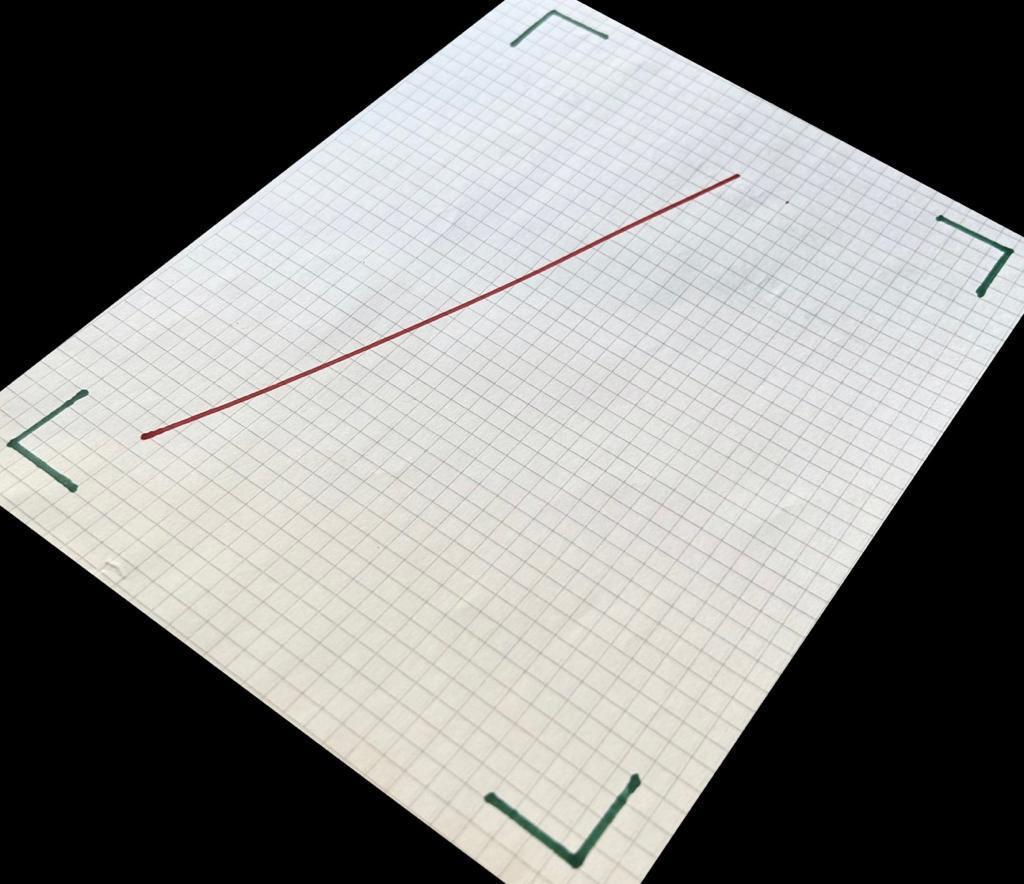
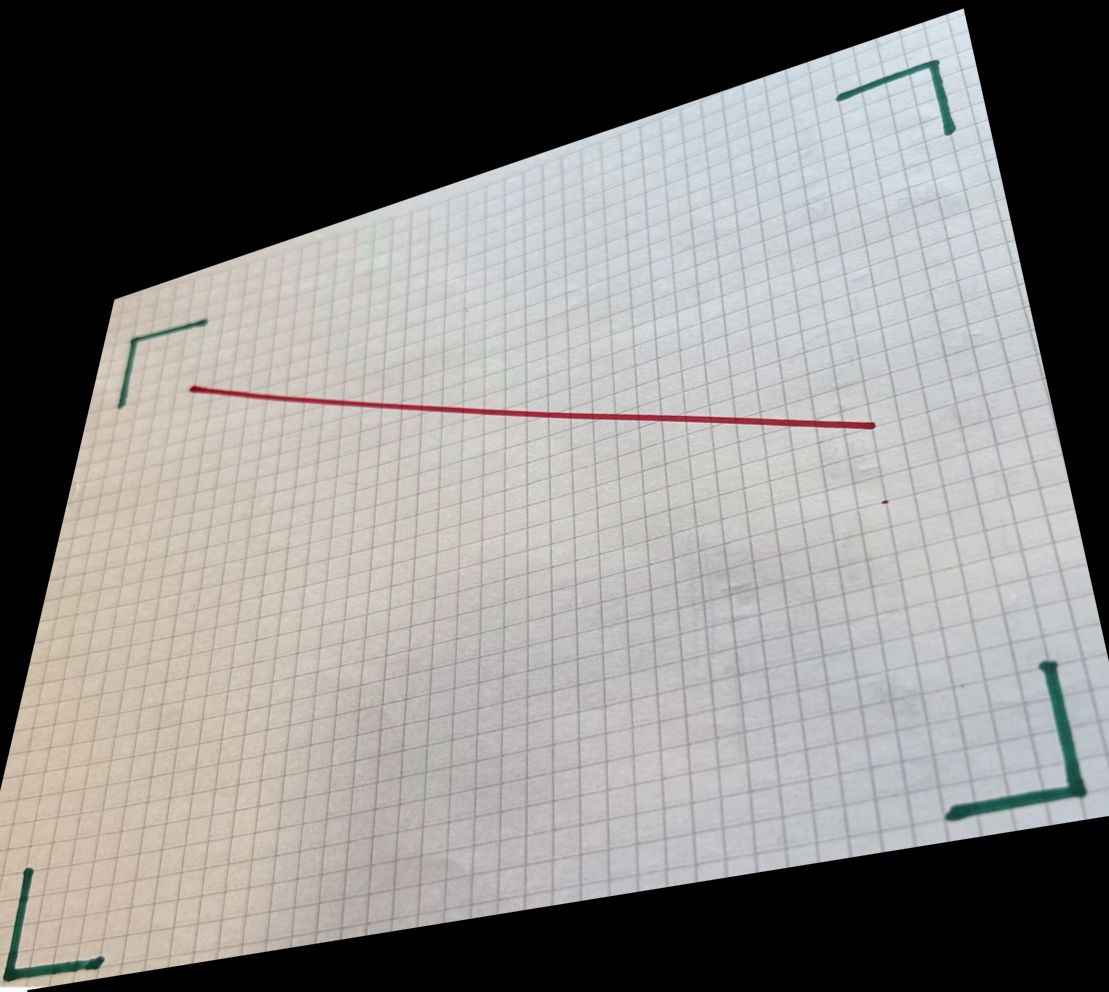
Vision funcionando

diff --git a/V_mask.m b/V_mask.m
@@ -2,10 +2,57 @@ clear all
 close all
 clc
 %% Importar imagenes sobre las que trabajamos
-im  =iread('c:\00 - Ignacio\Github\Automacion_TPF\Test Images\Foto1.jpg');
+im  =iread('c:\00 - Ignacio\Github\Automacion_TPF\Test Images\Foto2.jpg');
 
 
 
+%% Aplico la mascara ROJA
+
+%Valores del filtro
+red_mask_r_low = 100;
+red_mask_r_high = 195;
+red_mask_g_low = 10;
+red_mask_g_high = 90;
+red_mask_b_low = 10;
+red_mask_b_high = 90;
+idisp(im)
+
+I_R = im;
+
+% Defino los parametros de threshold de R
+channel1Min = red_mask_r_low;
+channel1Max = red_mask_r_high;
+
+% Defino los parametros de threshold de G
+channel2Min = red_mask_g_low;
+channel2Max = red_mask_g_high;
+
+% Defino los parametros de threshold de B
+channel3Min = red_mask_b_low;
+channel3Max = red_mask_b_high;
+
+% Se crea la mascara
+sliderBW = (I_R(:,:,1) >= channel1Min ) & (I_R(:,:,1) <= channel1Max) & ...
+    (I_R(:,:,2) >= channel2Min ) & (I_R(:,:,2) <= channel2Max) & ...
+    (I_R(:,:,3) >= channel3Min ) & (I_R(:,:,3) <= channel3Max);
+
+BW = sliderBW;
+
+
+% Set background pixels where BW is false to zero.
+RedImage = im;
+RedImage(repmat(~BW,[1 1 3])) = 0;
+
+Rmon=imono(RedImage);   
+Rblack=Rmon>0.9;
+
+% Aplicamos apertura y cierre para rellenar la linea
+
+closed_1 = iclose(Rblack, ones(1, 1));
+opened_1 = iopen(closed_1, ones(3, 3));
+linea_im = iclose(opened_1, kcircle(20));
+
+idisp(linea_im)
 %% Como primer paso vamos a aplicar una mascara VERDE
 % Este paso se hace primero para identificar los bordes en donde
 % se encuentra la linea roja
@@ -58,156 +105,6 @@ idisp(borde_im)
 edges = icanny(borde_im);
 h = Hough(edges, 'houghthresh', 0.6, 'suppress', 10)
 lines = h.lines();
-lines = lines.seglength(edges);
-k = find( lines.length > 1 & lines.length <= 32);
-
-
-idisp(borde_im)
-lines(k).plot('r')
-lines(k)
-
-
-%% Ahora encontramos las esquinas
-
-single_line = lines(1);
-
-single_values = [single_line.theta, single_line.rho, single_line.strength, single_line.length]
-
-single_line2 = lines(0);
-
-single_values2 = [single_line2.theta, single_line2.rho, single_line2.strength, single_line2.length]
-
-C = single_values.*single_values2
-
-[fil,col]=find(C == 2)      %%Fil y Col tienen las coordenadas de las interesecciones
-
-
-
-
-%% Aplico la mascara ROJA
-
-%Valores del filtro
-red_mask_r_low = 100;
-red_mask_r_high = 195;
-red_mask_g_low = 50;
-red_mask_g_high = 90;
-red_mask_b_low = 50;
-red_mask_b_high = 90;
-
-
-I_R = im;
-
-% Defino los parametros de threshold de R
-channel1Min = red_mask_r_low;
-channel1Max = red_mask_r_high;
-
-% Defino los parametros de threshold de G
-channel2Min = red_mask_g_low;
-channel2Max = red_mask_g_high;
-
-% Defino los parametros de threshold de B
-channel3Min = red_mask_b_low;
-channel3Max = red_mask_b_high;
-
-% Se crea la mascara
-sliderBW = (I_R(:,:,1) >= channel1Min ) & (I_R(:,:,1) <= channel1Max) & ...
-    (I_R(:,:,2) >= channel2Min ) & (I_R(:,:,2) <= channel2Max) & ...
-    (I_R(:,:,3) >= channel3Min ) & (I_R(:,:,3) <= channel3Max);
-
-BW = sliderBW;
-
-
-% Set background pixels where BW is false to zero.
-RedImage = im;
-RedImage(repmat(~BW,[1 1 3])) = 0;
-
-Rmon=imono(RedImage);   
-Rblack=Rmon>0.9;
-
-% Aplicamos apertura y cierre para rellenar la linea
-
-closed_1 = iclose(Rblack, ones(1, 1));
-opened_1 = iopen(closed_1, ones(3, 3));
-linea_im = iclose(opened_1, kcircle(20));
-
-edges = icanny(linea_im);
-
-
-h = Hough(edges, 'houghthresh', 0.1, 'suppress', 10);
-lines = h.lines();
- 
-
-lines = lines.seglength(edges)
-k = find( lines.length > 40 & lines.length <= 50);
-
-
-idisp(linea_im)
-lines(k).plot('r')
-lines(k)
-
-
-
-
-
-%% Aplico la mascara VERDE
-
-%Valores del filtro
-green_mask_r_low = 60;
-green_mask_r_high = 110;
-green_mask_g_low = 60;
-green_mask_g_high = 150;
-green_mask_b_low = 60;
-green_mask_b_high = 150;
-
-
-
-% Convert RGB image to chosen color space
-I = im;
-
-% Defino los parametros de threshold de R
-channel1Min = green_mask_r_low;
-channel1Max = green_mask_r_high;
-
-% Defino los parametros de threshold de G
-channel2Min = green_mask_g_low;
-channel2Max = green_mask_g_high;
-
-% Defino los parametros de threshold de B
-channel3Min = green_mask_b_low;
-channel3Max = green_mask_b_high;
-
-
-% Se crea la mascara
-sliderBW = (I(:,:,1) >= channel1Min ) & (I(:,:,1) <= channel1Max) & ...
-    (I(:,:,2) >= channel2Min ) & (I(:,:,2) <= channel2Max) & ...
-    (I(:,:,3) >= channel3Min ) & (I(:,:,3) <= channel3Max);
-
-BW = sliderBW;
-
-
-
-% Set background pixels where BW is false to zero.
-GreenImage = im;
-GreenImage(repmat(~BW,[1 1 3])) = 0;
-
-Gmon=imono(GreenImage);   
-Gblack=Gmon>0.9;
-
-% Aplicamos apertura y cierre para rellenar la linea
-
-closed_1 = iclose(Gblack, ones(2, 2));
-opened_1 = iopen(closed_1, ones(2, 2));
-borde_im = iclose(opened_1, kcircle(10));
-
-
-
-edges = icanny(borde_im);
-
-
-h = Hough(edges, 'houghthresh', 0.6, 'suppress', 10);
-lines = h.lines();
- 
-
 
 lines = lines.seglength(edges);
 k = find( lines.length > 1 & lines.length <= 32);
@@ -216,11 +113,13 @@ k = find( lines.length > 1 & lines.length <= 32);
 idisp(borde_im)
 lines(k).plot('r')
 lines(k)
+
 
 
 %% Ahora buscamos las intersecciones
 
 valid_verteces = zeros(2,0);
+lines = lines(k)
 for i = 1:size(lines,2)
     for j = i:size(lines,2)
         line1 = lines(i);
@@ -248,48 +147,51 @@ for i = 1:size(lines,2)
     end
 end
 
-disp(valid_verteces);
-[num_filas, num_columnas] = size(valid_verteces);
 
-filtered_corners = zeros(2,0);
-filtered_corners = [filtered_corners,[valid_verteces(1, 1);valid_verteces(2, 1)]];
-
-for j = 2:num_columnas
-    x = valid_verteces(1, j);
-    y = valid_verteces(2, j);
-    [num_filas2, num_columnas2] = size(filtered_corners);
-    for i = 1:num_columnas2
-        x_to_compare = filtered_corners(1, i);
-        y_to_compare = filtered_corners(2, i);
-
-        xx_to_compare = filtered_corners(1, end)
-        
-        if abs(x-x_to_compare) < 200 && abs(y-y_to_compare) <200
-            break;
-        else
-            filtered_corners = [filtered_corners,[x;y]];
-%             disp(abs(x-x_to_compare))
-%             disp(abs(y-y_to_compare))
-%             disp('-------------------')
-            break;
-        end
-           
-        
-    end
-    
-end
 
 
 idisp(borde_im)
-plot_point(filtered_corners,'o')
-
-
+lines.plot('r')
+plot_point(valid_verteces,'bold','*')
+disp(valid_verteces)
 % Filtro puntos
 
 
+%% Ahora tomamos la imagen original y la acomodamos
+    
+%Primero acomodalos los vertices en el arreglo para que aparezcan de la
+%siguiente manera:
+% [INF_IZQ, SUP_IZQ, SUP_DER, INF_DER]
+
+corners = valid_verteces(:, [3 1 2 4]);
+
+% % Mostrar la matriz original y la matriz intercambiada
+% disp('Matriz original:');
+% disp(valid_verteces);
+% disp('Matriz intercambiada:');
+% disp(corners);
+
+u_real = 200;
+v_real = 150;
+precision = 0.1;
+
+target_corners = [1 1 u_real/precision u_real/precision; v_real/precision 1 1 v_real/precision];
+
+%Matriz de homografia
+matH = homography(corners, target_corners);
+
+%Corregimos la imagen de la linea a dibujar
+test_im = homwarp(matH, im, 'size', [u_real/precision, v_real/precision]);
+corrected_im = homwarp(matH, linea_im, 'size', [u_real/precision, v_real/precision]);
 
 
+idisp(test_im)
+idisp(corrected_im)
 
 
+%% Ahora aplico una mascara roja para esta nueva imagen
 
+[fil,col]=find(corrected_im);          %Obtenemos todos los puntos por los que pasa la linea
 
+points(:,1) = [col(1); fil(1)]
+points(:,2) = [col(length(col)); fil(length(fil))]
